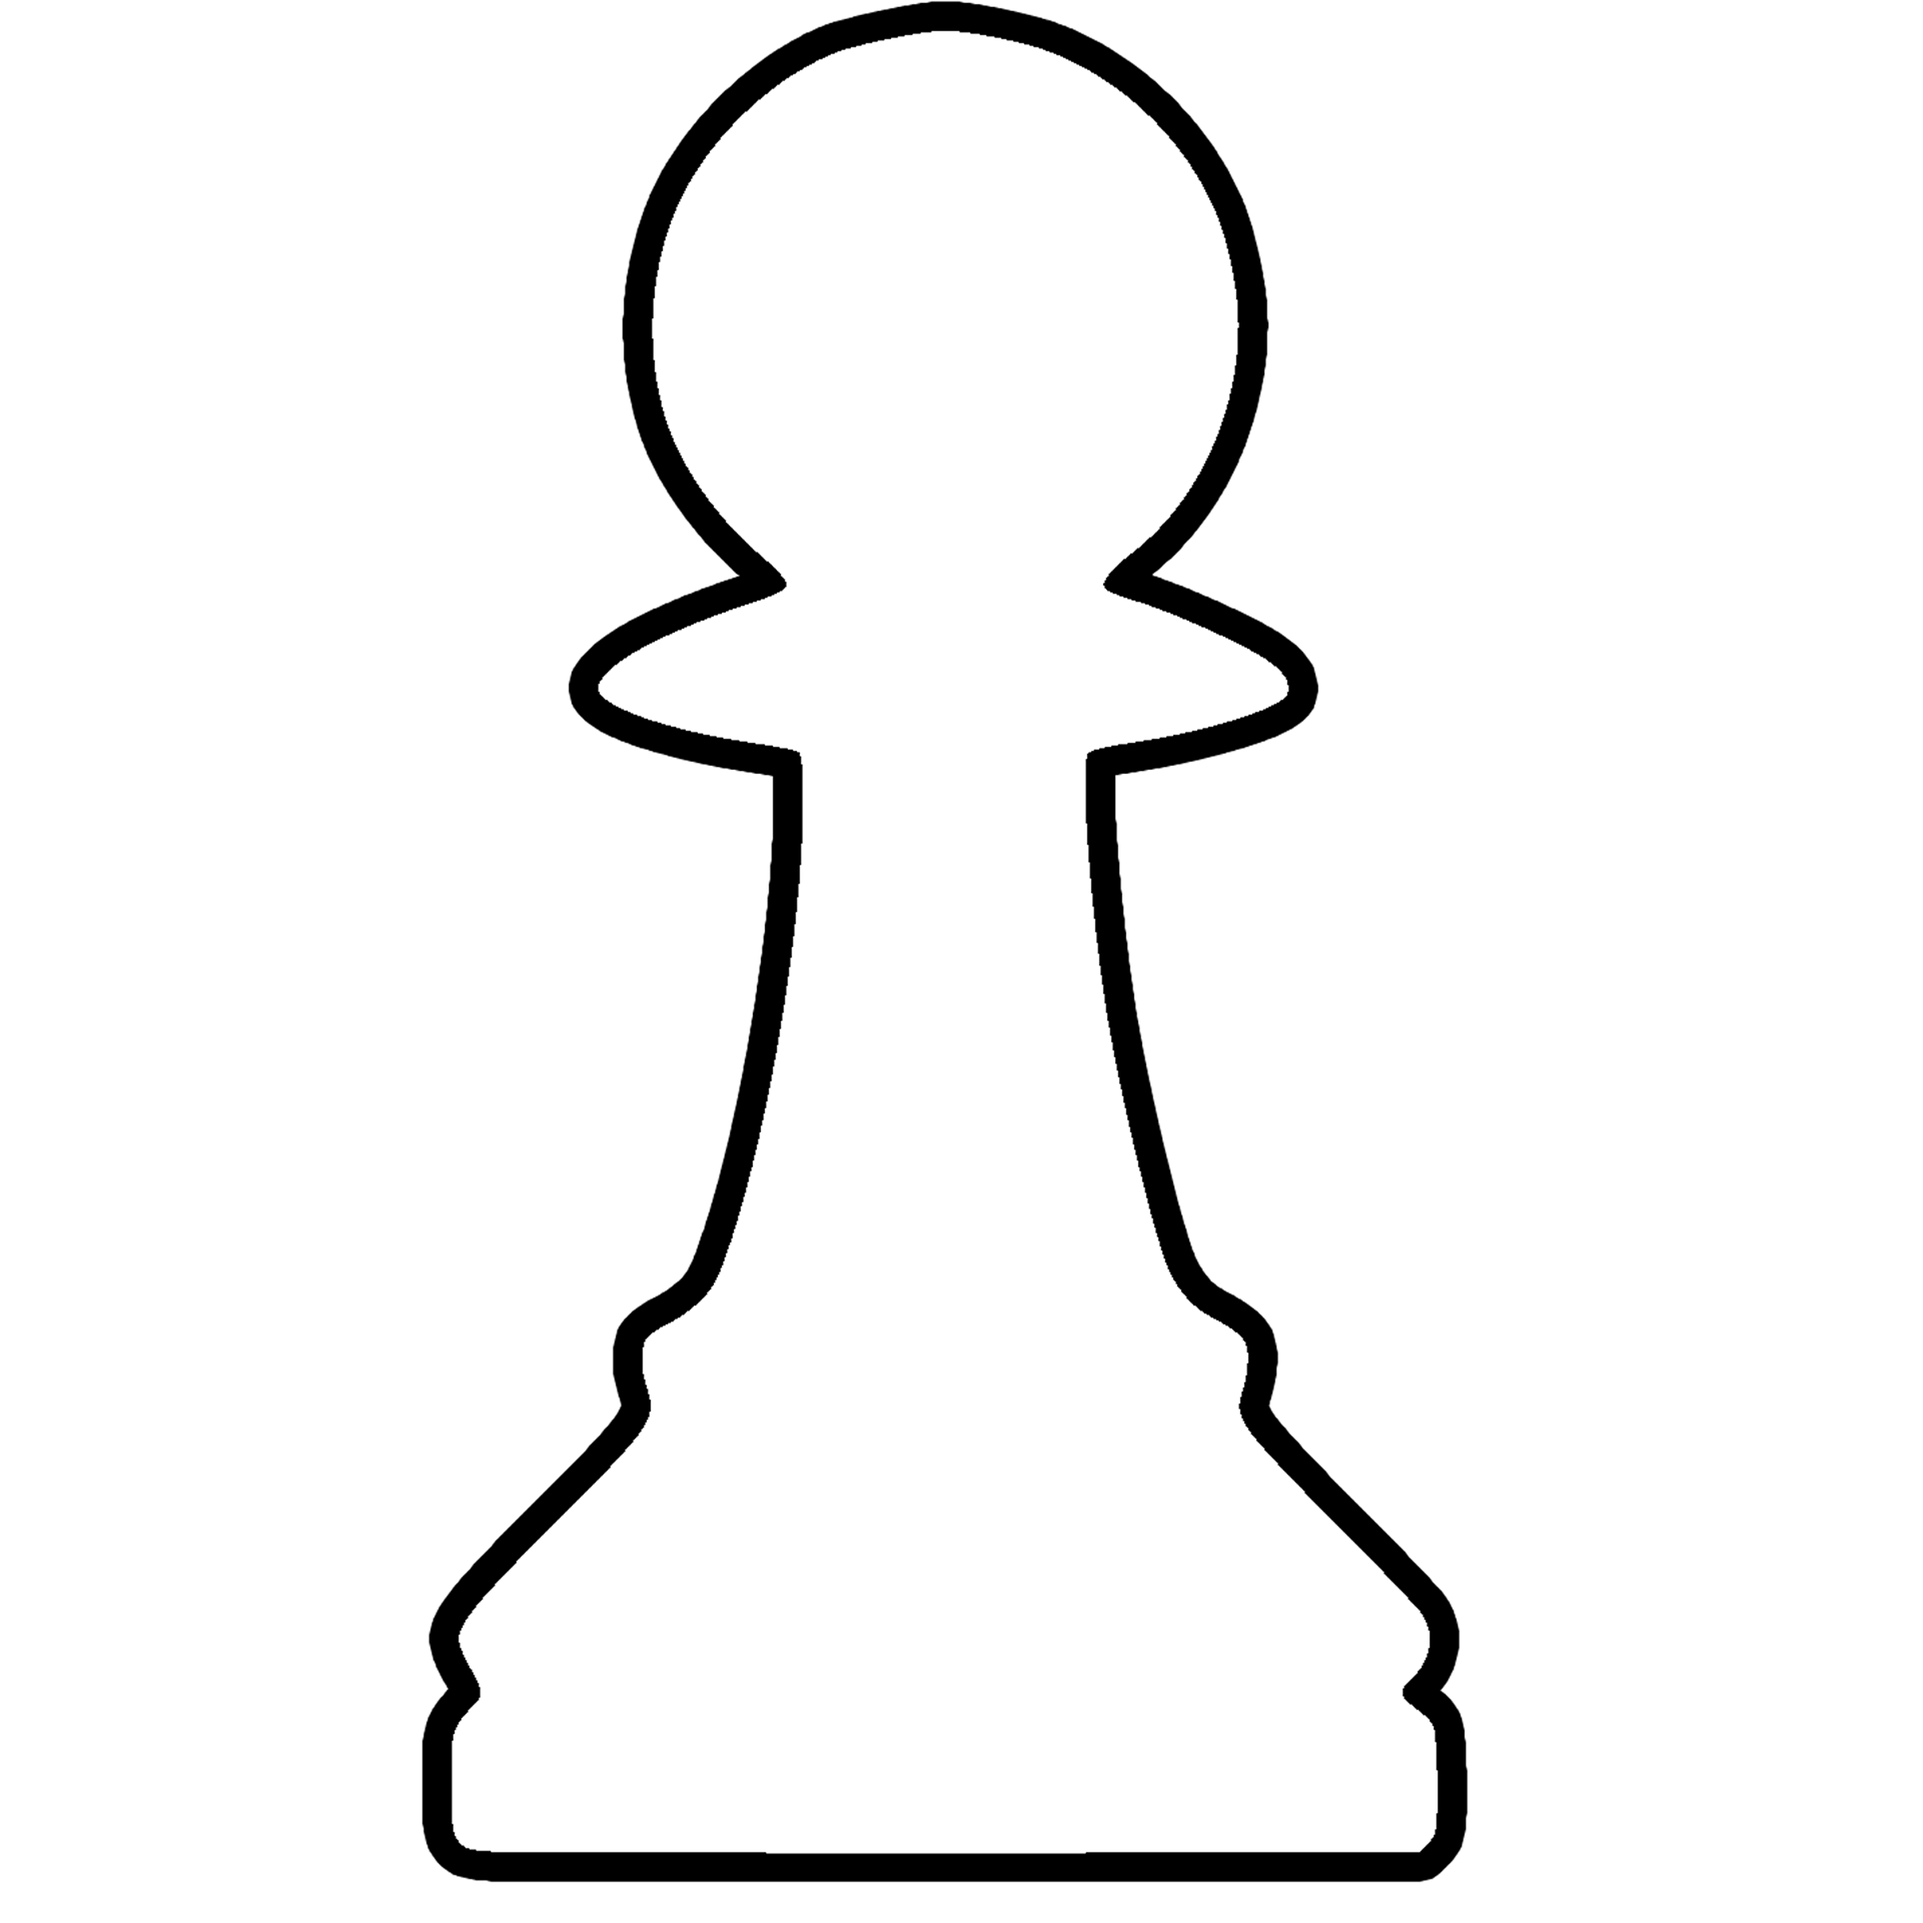
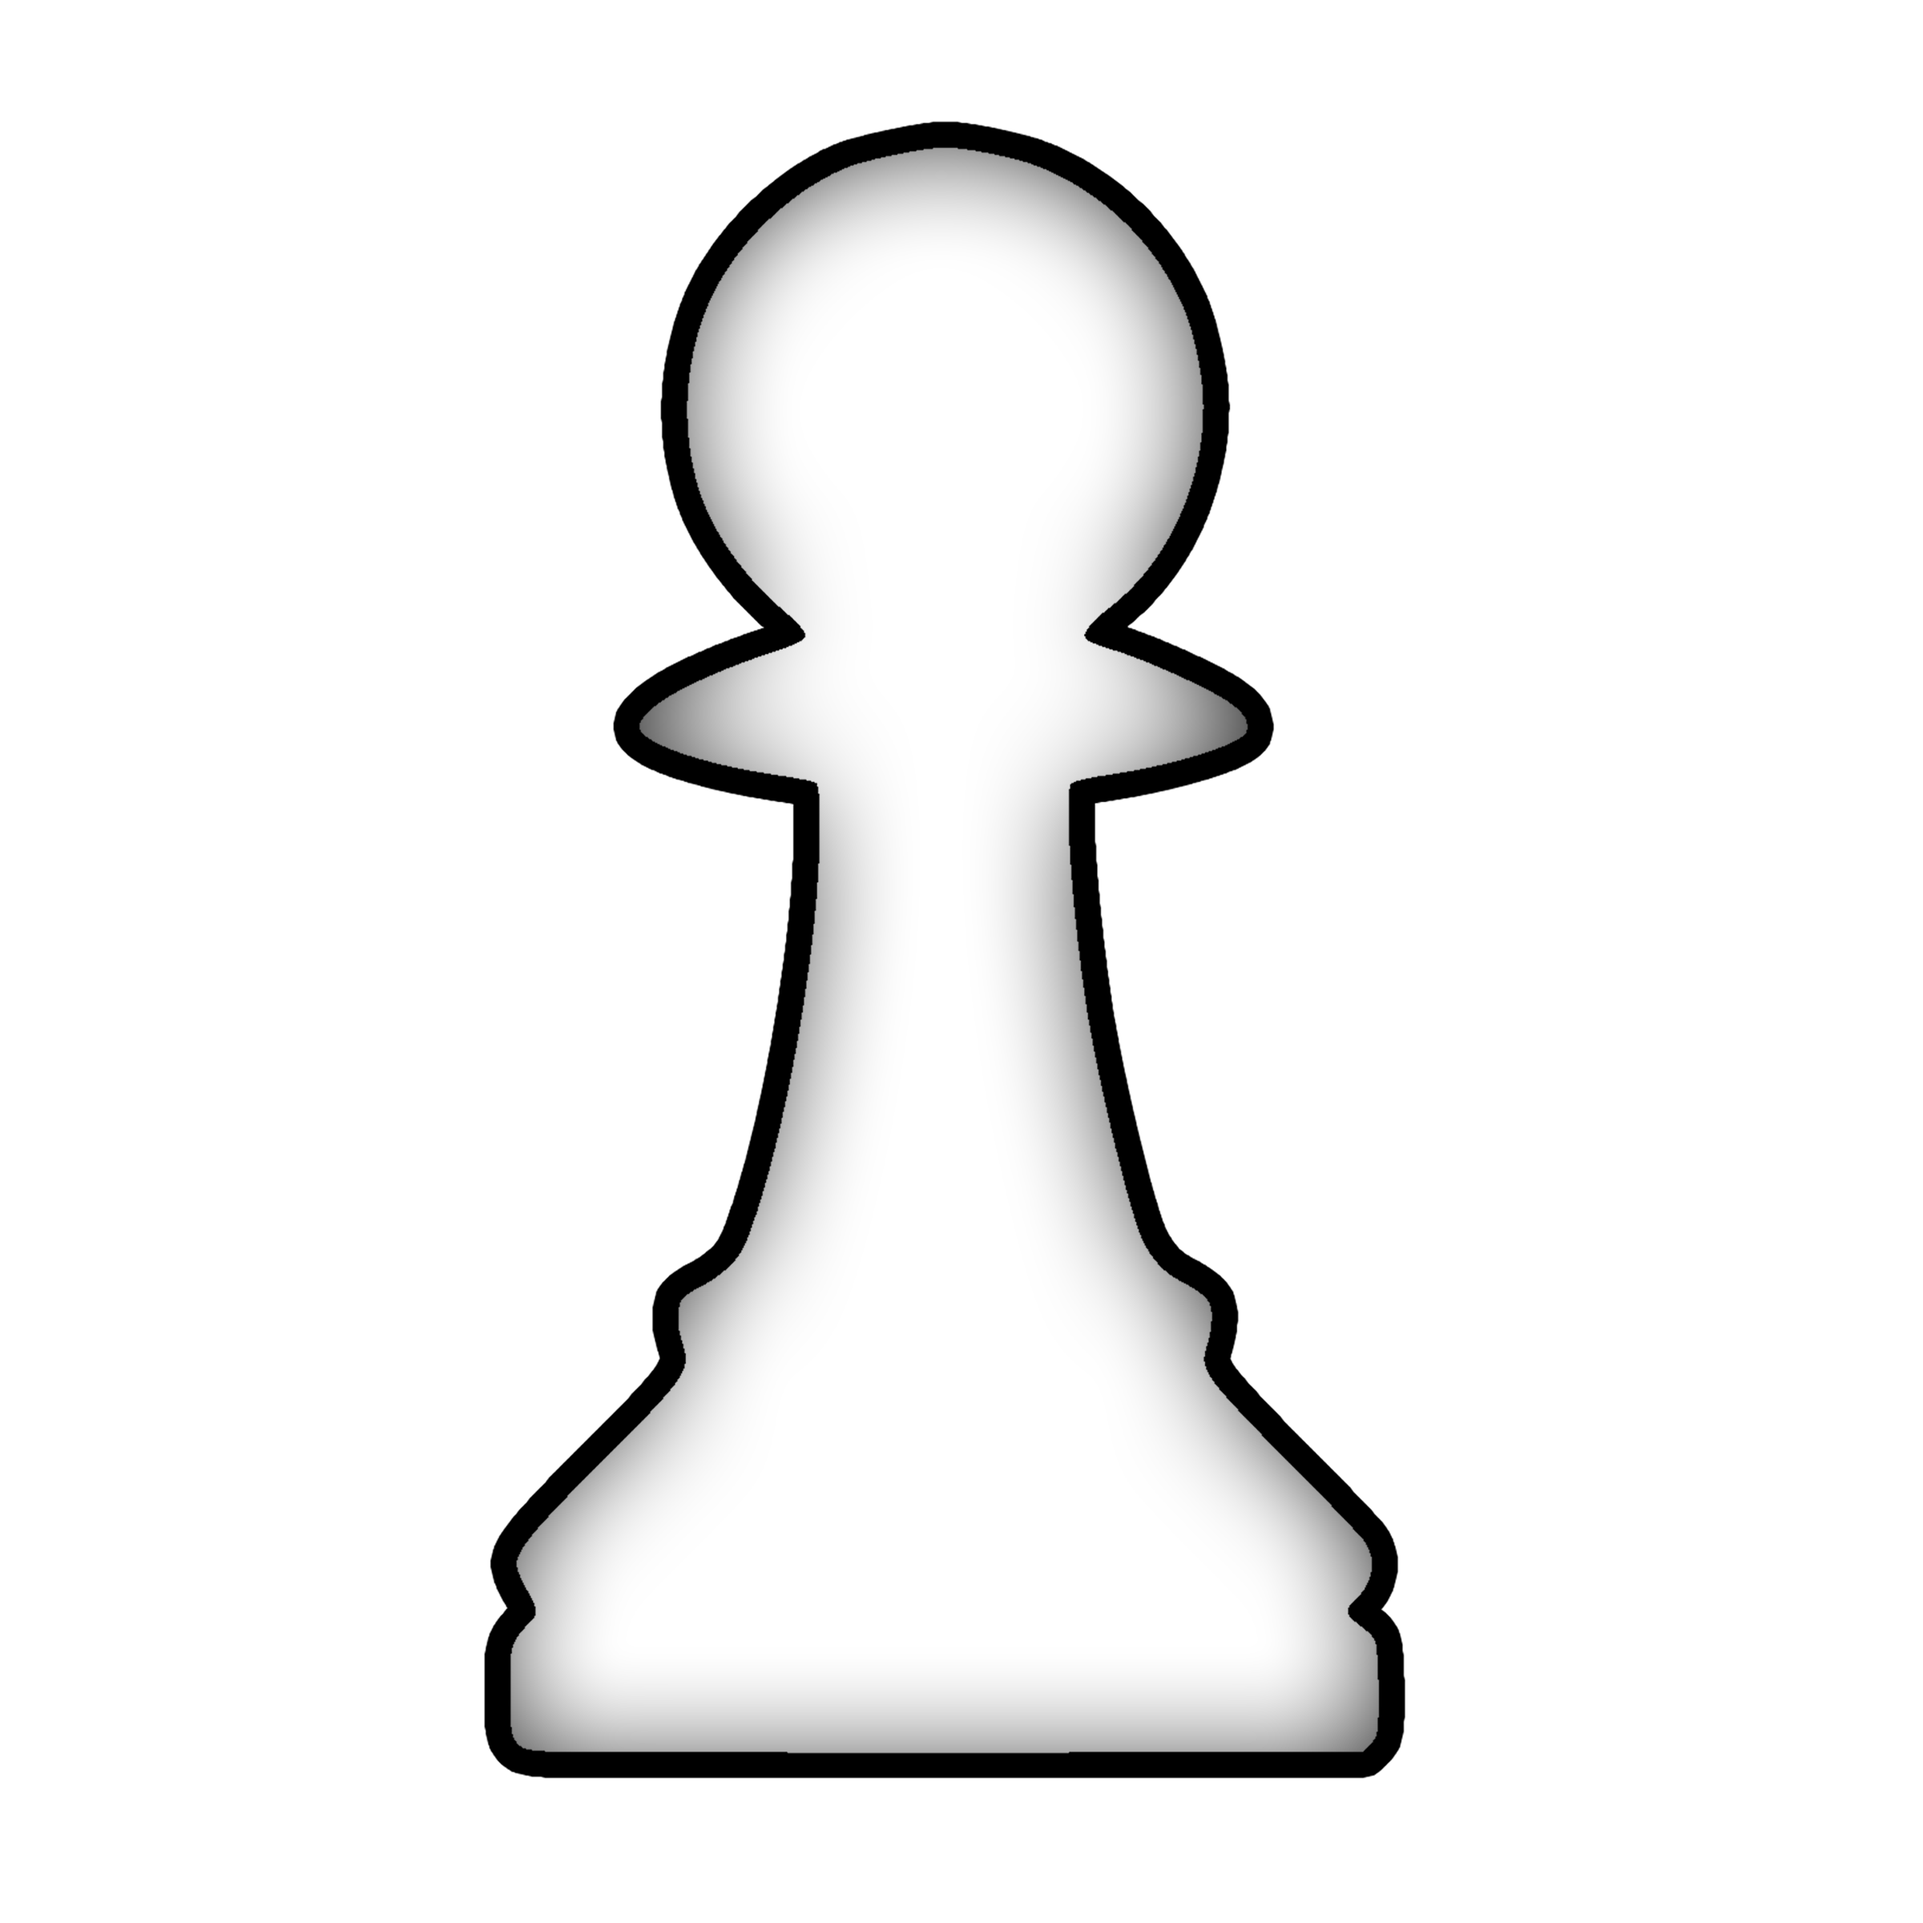
Moves logic implemented, images changed and database testing

Changed region(s): [[0.2188, 0.0, 0.7812, 1.0]]

diff --git a/createDB.js b/createDB.js
@@ -1,0 +1,11 @@
+var mongoClient = require('mongodb').MongoClient;
+
+var url = "mongodb://localhost:27017/mydb";
+
+mongoClient.connect(url, function(err, db){
+    if(err){
+        throw err;
+    }
+    console.log("Database created"+db.isConnected());
+    db.close();
+ });

diff --git a/index.js b/index.js
@@ -15,6 +15,13 @@ var path = path.join(__dirname,"/public/index.html");
 
 
 /**
+ * Database configuration
+ */
+
+
+
+
+/**
  * Server configuration
  */
 
